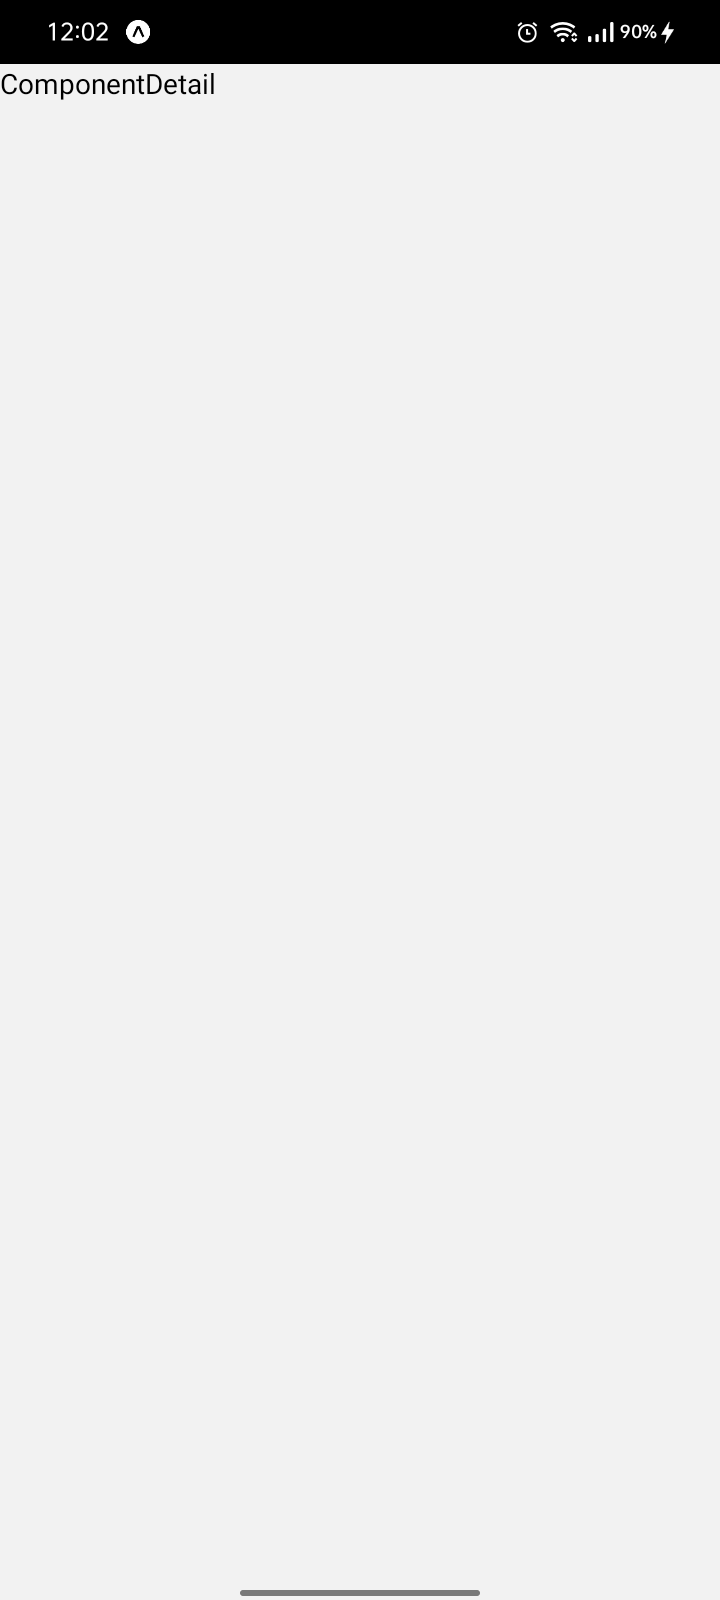
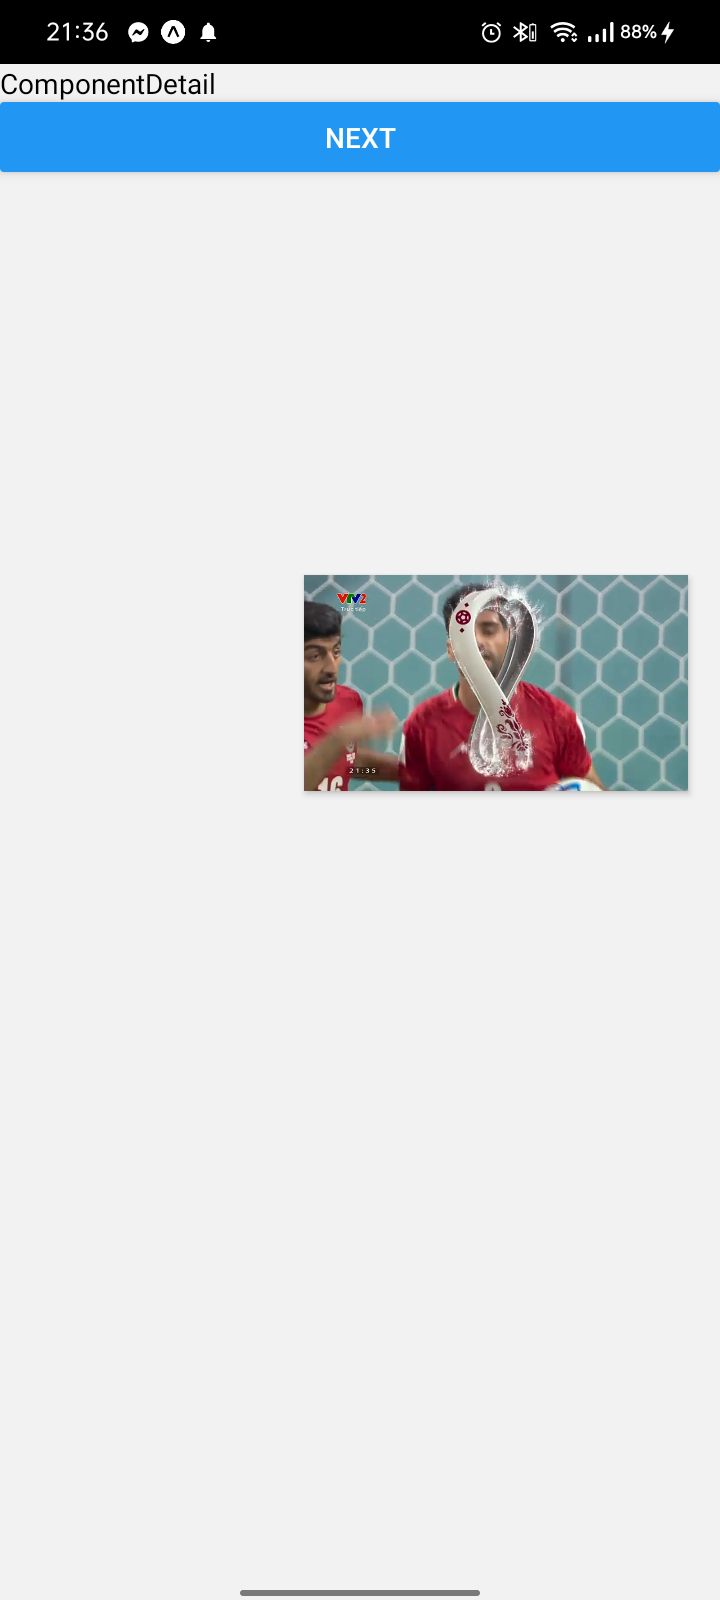
update screeen 3 - start screen 4- detail

diff --git a/src/components/ComponenHome.js b/src/components/ComponenHome.js
@@ -27,11 +27,10 @@ const ComponenHome = ({ navigation }) => {
         setDbGuitar(listItem)
     }, [])
 
-    //
-    const renderGuitar = ({ item }) => {
-
+    //ham thay doi so pice
+    const setPriceString = (val) => {
         let str = '';
-        let a = item.price.toString();
+        let a =val.toString();
         let x = 0;
         if (a.length > 3) {
             let i = 0;
@@ -90,8 +89,16 @@ const ComponenHome = ({ navigation }) => {
             }
         }
 
-        let str_price = str;
-
+        return str;
+    }
+    //
+    const renderGuitar = ({ item }) => {
+        let str_price = setPriceString(Math.floor(item.price- (item.price * item.sale )/100));
+        
+        // call detail Item
+        const getCallDetail = () => {
+            navigation.navigate('ComponentDetail', {item:item});
+        }
 
         return (
             <View style={[, {
@@ -105,10 +112,12 @@ const ComponenHome = ({ navigation }) => {
             }]} >
                 <Image style={[, { width: 150, height: 150, }]} source={{ uri: item.img }} />
                 <View style={[, { padding: 10, }]}  >
-                    <Text style={[, {
-                        fontSize: 12,
-                        fontWeight: 'bold',
-                    }]} >{item.name}</Text>
+                    <TouchableOpacity onPress={() => getCallDetail()}>
+                        <Text style={[, {
+                            fontSize: 12,
+                            fontWeight: 'bold',
+                        }]} >{item.name}</Text>
+                    </TouchableOpacity>
                     <Text style={[, {
                         fontSize: 13,
                         color: color.color_main,
@@ -129,7 +138,13 @@ const ComponenHome = ({ navigation }) => {
         )
     }
 
+    /**
+     * render item cho flash sale
+     */
     const renderItemSale = ({ item }) => {
+
+        let str_priceSale = setPriceString(Math.floor(item.price- (item.price * item.sale )/100));
+        let str_price = setPriceString(Math.floor(item.price));
 
 
         if (!item.favourite) {
@@ -149,9 +164,9 @@ const ComponenHome = ({ navigation }) => {
                 <Image style={[, { width: 110, height: 110 }]} source={{ uri: item.img }} />
                 <View style={[styles.flex_1, { marginVertical: 5 }]} >
                     <Text style={[, { fontWeight: 'bold', fontSize: 15 }]}  >{item.name}</Text>
-                    <Text style={[, { textDecorationLine: 'line-through', opacity: 0.5, marginTop: 5, }]} >$ {item.price}</Text>
+                    <Text style={[, { textDecorationLine: 'line-through', opacity: 0.5, marginTop: 5, }]} >$ {str_price}</Text>
                     <View style={[styles.row, {}]} >
-                        <Text style={[, { color: color.color_main, fontWeight: 'bold' }]} >$ {item.price - (item.price * item.sale / 100)}</Text>
+                        <Text style={[, { color: color.color_main, fontWeight: 'bold' }]} >$ {str_priceSale}</Text>
                         <Text style={[, { fontSize: 11, marginTop: 2, }]} > ( {item.sale}% ) </Text>
                     </View>
                     <View style={[styles.row, { alignItems: 'center', }]} >
@@ -170,7 +185,7 @@ const ComponenHome = ({ navigation }) => {
     let styleMenuBarName = 1;
     // let styleMenuBarStyle = styles.menuClick;
     let styleMenuBarStyle = (val) => {
-        if (val === styleMenuBarName ) {
+        if (val === styleMenuBarName) {
             return styles.menuClick;
         }
         return null;
@@ -295,6 +310,7 @@ const ComponenHome = ({ navigation }) => {
                     alignItems: 'center',
                     marginBottom: 15,
                 }]} >
+                    {/* Chua xong can chayj tgian */}
                     <Text style={[, { fontWeight: 'bold', marginRight: 15 }]} >Flash Sale</Text>
                     <Text style={[, { padding: 5, paddingHorizontal: 7, backgroundColor: color.color_main, marginRight: 5, borderRadius: 10, }]} >01</Text>
                     <Text style={[, { padding: 5, paddingHorizontal: 7, backgroundColor: color.color_main, marginRight: 5, borderRadius: 10, }]} >24</Text>
@@ -341,26 +357,24 @@ const ComponenHome = ({ navigation }) => {
                 justifyContent: 'space-around'
 
             }]}  >
-                <TouchableOpacity style={[, { padding: 8, paddingHorizontal: 10, alignItems:'center' }]}    >
+                <TouchableOpacity style={[, { padding: 8, paddingHorizontal: 10, alignItems: 'center' }]}    >
                     <View style={styleMenuBarStyle(1)}></View>
-                    <IconMaterialCommunityIcons name={ styleMenuBarName===1 ? 'home' : 'home-outline'} size={25} color={'#eee'} />
+                    <IconMaterialCommunityIcons name={styleMenuBarName === 1 ? 'home' : 'home-outline'} size={25} color={'#eee'} />
                 </TouchableOpacity>
-                <TouchableOpacity style={[, { padding: 8, paddingHorizontal: 10, alignItems:'center' }]}    >
+                <TouchableOpacity style={[, { padding: 8, paddingHorizontal: 10, alignItems: 'center' }]}    >
                     <View style={styleMenuBarStyle(2)}></View>
-                    <IconFontAwesome name={ styleMenuBarName===2 ? 'heart' : 'heart-o'} size={25} color={'#eee'} />
+                    <IconFontAwesome name={styleMenuBarName === 2 ? 'heart' : 'heart-o'} size={25} color={'#eee'} />
                 </TouchableOpacity>
-                <TouchableOpacity style={[, { padding: 8, paddingHorizontal: 10, alignItems:'center' }]}    >
+                <TouchableOpacity style={[, { padding: 8, paddingHorizontal: 10, alignItems: 'center' }]}    >
                     <View style={styleMenuBarStyle(3)}></View>
-                    <IconAntDesign name={ styleMenuBarName===3 ? 'downsquare' : 'down-square-o'} size={25} color={'#eee'} />
+                    <IconAntDesign name={styleMenuBarName === 3 ? 'downsquare' : 'down-square-o'} size={25} color={'#eee'} />
                 </TouchableOpacity>
-                <TouchableOpacity style={[, { padding: 8, paddingHorizontal: 10, alignItems:'center' }]}    >
+                <TouchableOpacity style={[, { padding: 8, paddingHorizontal: 10, alignItems: 'center' }]}    >
                     <View style={styleMenuBarStyle(4)}></View>
-                    <IconFontAwesome name={ styleMenuBarName===4 ? 'user' : 'user-o'} size={25} color={'#eee'} />
+                    <IconFontAwesome name={styleMenuBarName === 4 ? 'user' : 'user-o'} size={25} color={'#eee'} />
                 </TouchableOpacity>
             </View>
 
-            {/* <Text>ComponenHome</Text>
-            <Button title=' next ' onPress={() => navigation.navigate('ComponentDetail')} /> */}
 
         </View>
     )

diff --git a/App.js b/App.js
@@ -7,6 +7,7 @@ import ComponentScreen1 from './src/components/ComponentScreen1';
 import ComponentLogin from './src/components/ComponentLogin';
 import ComponenHome from './src/components/ComponenHome';
 import ComponentDetail from './src/components/ComponentDetail';
+import ComponentCart from './src/components/ComponentCart';
 
 const Stack = createNativeStackNavigator();
 
@@ -18,6 +19,7 @@ export default function App() {
                 <Stack.Screen name="ComponentLogin" component={ComponentLogin} />
                 <Stack.Screen name="ComponenHome" component={ComponenHome} />
                 <Stack.Screen name="ComponentDetail" component={ComponentDetail} />
+                <Stack.Screen name="ComponentCart" component={ComponentCart} />
             </Stack.Navigator>
         </NavigationContainer>
     );

diff --git a/src/components/ComponentDetail.js b/src/components/ComponentDetail.js
@@ -1,12 +1,18 @@
-import { View, Text } from 'react-native'
+import { View, Text, Button } from 'react-native'
 import React from 'react'
 
-const ComponentDetail = ({navigation}) => {
-  return (
-    <View>
-      <Text>ComponentDetail</Text>
-    </View>
-  )
+const ComponentDetail = ({ route, navigation }) => {
+    console.log("🚀 ~ file: ComponentDetail.js ~ line 5 ~ ComponentDetail ~ route", route)
+    let { item } = route.params;
+    console.log("🚀 ~ file: ComponentDetail.js ~ line 7 ~ ComponentDetail ~ item", item)
+
+    return (
+        <View>
+            <Text>ComponentDetail</Text>
+            <Button title=' next ' onPress={() => navigation.navigate('ComponentCart')} />
+
+        </View>
+    )
 }
 
 export default ComponentDetail;

diff --git a/src/components/ComponentCart.js b/src/components/ComponentCart.js
@@ -1,0 +1,14 @@
+import { View, Text, Button } from 'react-native'
+import React from 'react'
+
+const ComponentCart = ({navigation}) => {
+  return (
+    <View>
+      <Text>ComponentCart</Text>
+      <Button title=' next ' onPress={() => navigation.navigate('ComponentCart')} />
+
+    </View>
+  )
+}
+
+export default ComponentCart;

diff --git a/README.md b/README.md
@@ -16,3 +16,6 @@
 #### Screen 4: Detail  
 <img src="./AnhMinhHoa/screen_4_detail.png" alt="Không tồn tại !!!" width="300" />
 
+#### Screen 5: Cart  
+<img src="./AnhMinhHoa/screen_5_cart.png" alt="Không tồn tại !!!" width="300" />
+
